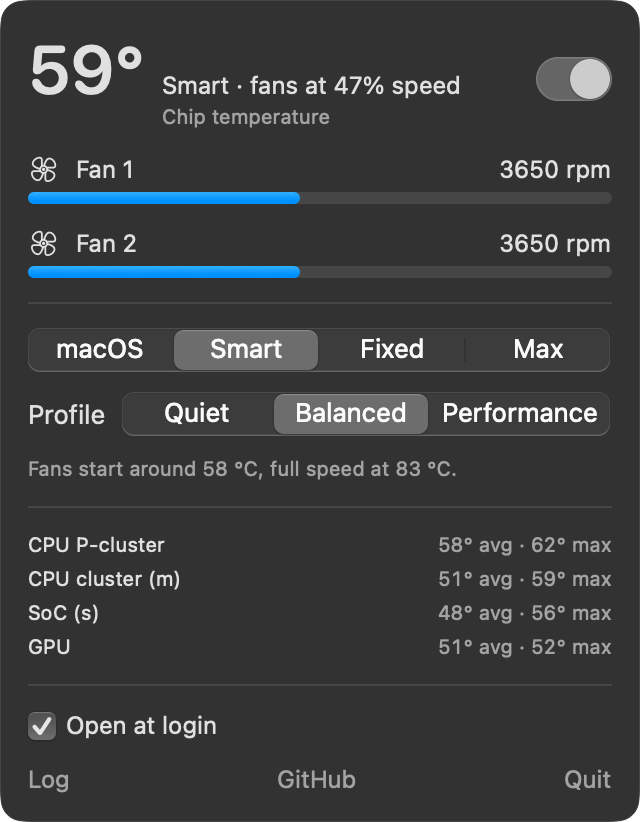
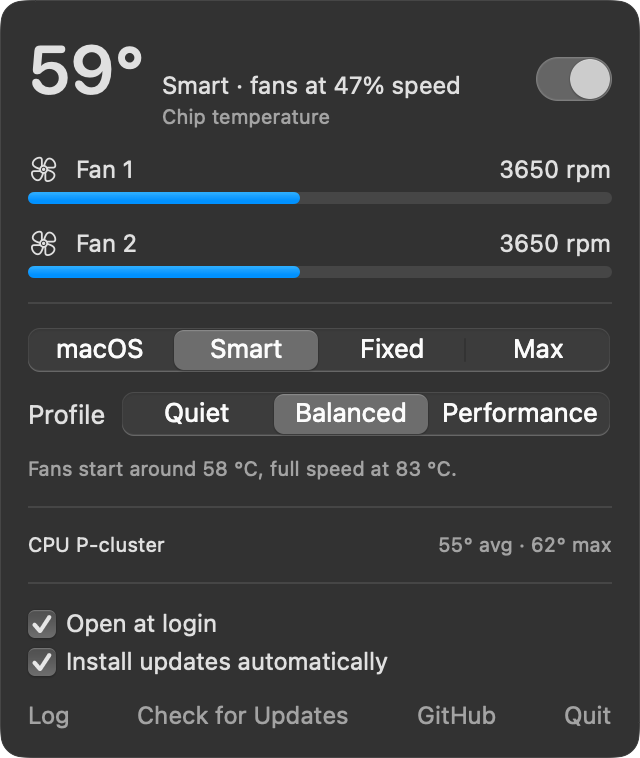
README: automatic updates, refreshed panel screenshots

diff --git a/docs/RELEASING.md b/docs/RELEASING.md
@@ -5,8 +5,7 @@ Releases are built and published by `.github/workflows/release.yml` when a versi
 1. Bump `version` in the root `Cargo.toml` (for example `0.2.0`), then run `cargo build` to refresh `Cargo.lock`.
 2. If the UI or the controller changed, refresh the README images:
    ```sh
-   fanctl status --json > /tmp/status.json
-   (cd app && swift run RenderScreenshots /tmp/status.json ../docs/images)   # menu bar panel, light + dark
+   (cd app && swift run RenderScreenshots ../docs/images/panel-status.json ../docs/images)   # menu bar panel, light + dark
    python3 docs/images/make_chart.py                                          # simulator chart, light + dark
    ```
 3. Check that `make ci` passes, then commit: `Release v0.2.0`.
@@ -18,6 +17,7 @@ Releases are built and published by `.github/workflows/release.yml` when a versi
    - `MacFanOptimizer-macos-arm64.zip`: menu bar app, bundling the daemon and installer
    - `macfanoptimizer-macos-arm64.tar.gz`: `fand`, `fanctl`, `install.sh`, `uninstall.sh`
    - `SHA256SUMS`
+   - `SHA256SUMS.sig`: Ed25519 signature checked by the in-app updater, made with the `UPDATE_SIGNING_KEY` secret. The workflow fails rather than publish an unsigned release.
 6. Verify the release: `MFO_DOWNLOAD_ONLY=1 bash scripts/get.sh` downloads the latest release and checks its checksums without installing anything.
 
 Asset names carry no version, so `releases/latest/download/<asset>` always resolves to the newest release. `scripts/get.sh` depends on this.

diff --git a/README.md b/README.md
@@ -89,7 +89,7 @@ Safety: a hot chip always wins over a fixed speed, sensor failures hand control 
 | Performance | 50 °C | 76 °C |
 | Custom | `custom_curve` in the config file | |
 
-The switch at the top of the menu bar panel turns fan control off (macOS mode) and back on to the mode you last used. Temperatures follow your Celsius/Fahrenheit choice in **System Settings → General → Language & Region**.
+The app keeps itself up to date: it checks GitHub for new releases, verifies their signature and installs them (turn this off in the panel).  turns fan control off (macOS mode) and back on to the mode you last used. Temperatures follow your Celsius/Fahrenheit choice in **System Settings → General → Language & Region**.
 
 ### Simulated comparison
 
